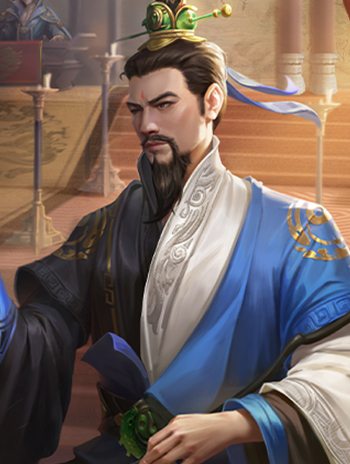
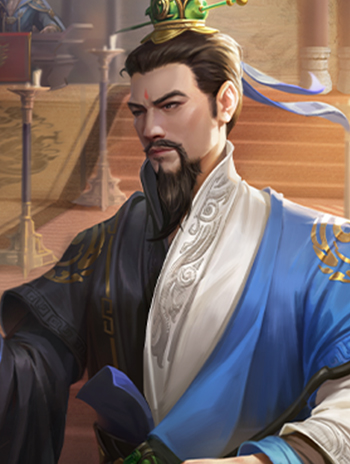
晋司马懿调整，张华周宣放大原画

diff --git a/character/yingbian/skill.js b/character/yingbian/skill.js
@@ -2145,42 +2145,52 @@ const skills = {
 	},
 	smyyingshi: {
 		audio: 2,
-		enable: "phaseUse",
-		locked: true,
-		filter(event, player) {
-			return Array.isArray(event.smyyingshi);
+		trigger: { player: "phaseUseBegin" },
+		forced: true,
+		silent: true,
+		async content(event, trigger, player) {
+			player.addTempSkill(`${event.name}_view`, "phaseUseEnd");
+			const func = target => target.markSkill("smyyingshi_view", null, null, true);
+			event.isMine() ? func(player) : player.isOnline2() && player.send(func, player);
 		},
-		onChooseToUse(event) {
-			if (game.online || !event.player.hasSkill("smyyingshi")) {
-				return;
+		init(player, skill) {
+			if (player.isPhaseUsing()) {
+				player.addTempSkill(`${skill}_view`, "phaseUseEnd");
 			}
-			var cards = [];
-			for (var i = 0; i < event.player.maxHp; i++) {
-				var card = ui.cardPile.childNodes[i];
-				if (card) {
-					cards.push(card);
-				} else {
-					break;
-				}
-			}
-			event.set("smyyingshi", cards);
 		},
-		chooseButton: {
-			dialog(event) {
-				var dialog = ui.create.dialog("鹰视", "hidden");
-				if (event.smyyingshi && event.smyyingshi.length) {
-					dialog.add(event.smyyingshi);
+		onremove(player, skill) {
+			player.removeSkill(`${skill}_view`);
+		},
+		getCards(player) {
+			const num = player.maxHp;
+			if (num > 0) {
+				if (game.online) {
+					return game.dataRequest("olsbzhitian", "getTopCards", 10000, num);
 				} else {
-					dialog.addText("牌堆无牌");
+					if (ui.cardPile.hasChildNodes !== false) {
+						return Array.from(ui.cardPile.childNodes).slice(0, num);
+					}
 				}
-				for (var i of dialog.buttons) {
-					i.classList.add("noclick");
-				}
-				dialog.buttons.length = 0;
-				return dialog;
-			},
-			filter() {
-				return false;
+			}
+			return [];
+		},
+		subSkill: {
+			view: {
+				charlotte: true,
+				intro: {
+					mark(dialog, content, player) {
+						if (player !== game.me || !player.hasSkill("smyyingshi")) {
+							return;
+						}
+						const cards = lib.skill.smyyingshi.getCards(player);
+						if (cards instanceof Promise) {
+							return cards.then(([ok, result]) => {
+								result.length > 0 ? dialog.add(result) : dialog.addText("牌堆顶无牌");
+							});
+						}
+						cards.length > 0 ? dialog.add(cards) : dialog.addText("牌堆顶无牌");
+					},
+				},
 			},
 		},
 	},
@@ -2190,31 +2200,20 @@ const skills = {
 		limited: true,
 		skillAnimation: true,
 		animationColor: "thunder",
-		content() {
-			"step 0";
+		async content(event, trigger, player) {
 			player.awakenSkill(event.name);
-			"step 1";
-			var card = get.cards()[0];
-			event.card = card;
-			player.showCards(card);
-			if ((!get.info(card).notarget || !lib.filter.cardEnabled(card, player)) && !player.hasUseTarget(card)) {
-				card.fix();
-				ui.cardPile.insertBefore(card, ui.cardPile.firstChild);
-				game.updateRoundNumber();
-				event.finish();
-			}
-			"step 2";
-			var next = player.chooseUseTarget(card, true);
-			if (get.info(card).updateUsable == "phaseUse") {
-				next.addCount = false;
-			}
-			"step 3";
-			if (result.bool) {
-				event.goto(1);
-			} else {
-				card.fix();
-				ui.cardPile.insertBefore(card, ui.cardPile.firstChild);
-				game.updateRoundNumber();
+			while (true) {
+				const card = get.cards()[0];
+				const content = ["牌堆顶", [card]];
+				game.log(player, "观看了牌堆顶的一张牌");
+				await player.chooseControl("ok").set("dialog", content);
+				if (player.hasUseTarget(card, null, card.name === "sha") || (get.info(card).notarget && lib.filter.cardEnabled(card, player))) {
+					const result = await player.chooseUseTarget(card, true).forResult();
+					if (result?.bool) {
+						continue;
+					}
+				}
+				break;
 			}
 		},
 		ai: {
@@ -2224,7 +2223,6 @@ const skills = {
 					if (!player.hasSkill("smyyingshi")) {
 						return 1;
 					}
-					var cards = [];
 					for (var i = 0; i < Math.min(2, player.maxHp); i++) {
 						var card = ui.cardPile.childNodes[i];
 						if (card) {

diff --git a/character/sp2/translate.js b/character/sp2/translate.js
@@ -257,7 +257,7 @@ const translates = {
 	smyyingshi: "鹰视",
 	smyyingshi_info: "锁定技，出牌阶段，你可观看牌堆顶的X张牌（X为你的体力上限）。",
 	xiongzhi: "雄志",
-	xiongzhi_info: "限定技，出牌阶段，你可亮出牌堆顶的一张牌并使用之。若如此做，你重复此流程，直到你以此法展示的牌无法使用。",
+	xiongzhi_info: "限定技，出牌阶段，你可观看牌堆顶的一张牌并使用之（使用【杀】有次数限制），且你重复此流程直到你无法使用观看的牌。",
 	quanbian: "权变",
 	quanbian2: "权变",
 	quanbian_info: "当你于出牌阶段内使用/打出手牌时，若此牌有花色且你本回合内未使用/打出过该花色的其他手牌，则你可以选择一项：①摸一张牌。②将牌堆顶X张牌中的一张置于牌堆底（X为你的体力上限）。若你发动此技能，则你本回合内不能再使用与此牌花色相同的手牌。",

diff --git a/character/onlyOL/skill.js b/character/onlyOL/skill.js
@@ -265,11 +265,14 @@ const skills = {
 		intro: {
 			content: "观看牌数-#",
 		},
-		trigger: { player: ["phaseBegin"] }, //"chooseToDiscardBegin"
+		trigger: { player: "phaseBegin" },
 		forced: true,
 		locked: false,
+		silent: true,
 		async content(event, trigger, player) {
 			player.addTempSkill(event.name + "_view");
+			const func = target => target.markSkill("olsbzhitian_view", null, null, true);
+			event.isMine() ? func(player) : player.isOnline2() && player.send(func, player);
 		},
 		getCards(player) {
 			let cards = [];
